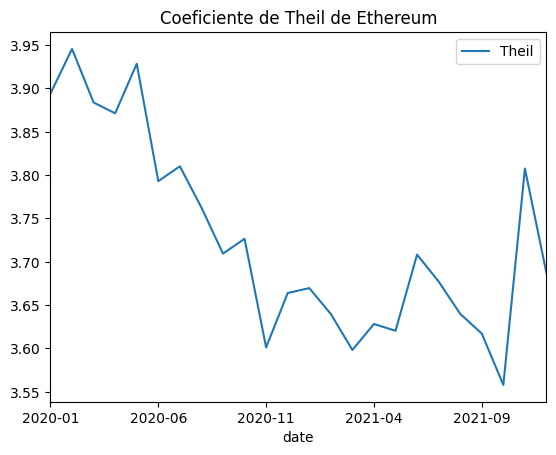
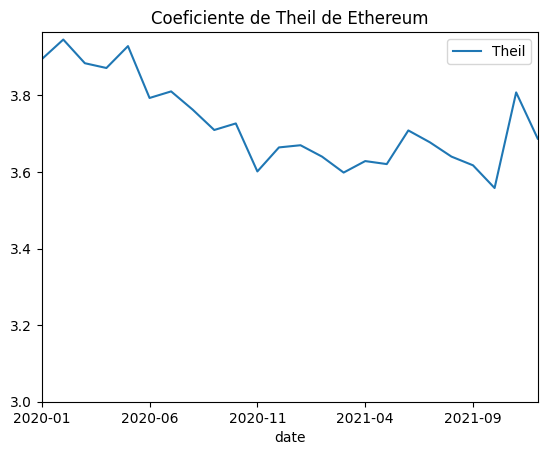
commit

diff --git a/main.py b/main.py
@@ -112,6 +112,10 @@ def plot_gini(name, capitalized_name, start_date, end_date, miner_field, change_
     plot = inequalities.plot();
     plot.set_title('Coeficiente de Gini de ' + capitalized_name)
     plot.margins(x=0)
+    if(name == 'dash'):
+        plot.set_ylim([0, None])
+    elif():
+        plot.set_ylim([0.5, None])
     plt.savefig('figs/gini/' + name + '_' + start_date + '_' + end_date + '.png', bbox_inches="tight")
 
 def theil_by_column(column):
@@ -131,6 +135,10 @@ def plot_theil(name, capitalized_name, start_date, end_date, miner_field, change
     plot = inequalities.plot();
     plot.set_title('Coeficiente de Theil de ' + capitalized_name)
     plot.margins(x=0)
+    if(name == 'ethereum'):
+        plot.set_ylim([3.0, None])
+    elif():
+        plot.set_ylim([0, None])
     plt.savefig('figs/theil/' + name + '_' + start_date + '_' + end_date + '.png', bbox_inches="tight")
 
 def nakamoto(arr, count_df):
@@ -162,12 +170,15 @@ def mean(x): return np.mean(x)
 def plot_upc(name, capitalized_name, start_date, end_date, miner_field):
     df = pd.read_csv('dataframes/full/' + name + '_' + start_date + '_' + end_date + '.csv')
     df = df[df[miner_field] != "*Desconhecido"]
+    df['date'] = pd.to_datetime(df['date'])
+    df['date'] = df['date'].dt.strftime('%Y-%m')
+    # print(df)
     df = df.groupby(['date'])['blocks'].agg([mean, std])
     df['Uniformidade'] = df['std']/df['mean']
     df = df.drop(['std', 'mean'], axis=1)
     plot = df.plot()
     plot.set_title('Coeficiente de Proporção de Uniformidade do ' + capitalized_name)
-    plot.set_ylim([0, None])
+    plot.set_ylim([0.4, None])
     plot.margins(x=0)
     # plot.xaxis.set_major_locator(YearLocator())
     # plot.xaxis.set_major_formatter(DateFormatter('%Y-%m-d'))
@@ -193,27 +204,27 @@ def main():
     # plot_coin('litecoin', 'Litecoin', '20111012', '20211231', 'guessed_miner', True, False)
     # plot_coin('litecoin', 'Litecoin', '20200101', '20211231', 'guessed_miner', True, False)
 
-    # plot_gini('bitcoin', 'Bitcoin', '20090109', '20211231', 'guessed_miner', True, True)
-    # plot_gini('bitcoin', 'Bitcoin', '20200101', '20211231', 'guessed_miner', True, True)
-    # plot_gini('bitcoin-cash', 'BitcoinCash', '20170801', '20211231', 'guessed_miner', True, True)
-    # plot_gini('bitcoin-cash', 'BitcoinCash', '20200101', '20211231', 'guessed_miner', True, True)
-    # plot_gini('dash', 'Dash', '20140119', '20211231', 'guessed_miner', True, False)
-    # plot_gini('dash', 'Dash', '20200101', '20211231', 'guessed_miner', True, False)
-    # plot_gini('ethereum', 'Ethereum', '20150730', '20211231', 'miner', False, False)
-    # plot_gini('ethereum', 'Ethereum', '20200101', '20211231', 'miner', False, False)
-    # plot_gini('litecoin', 'Litecoin', '20111012', '20211231', 'guessed_miner', True, False)
-    # plot_gini('litecoin', 'Litecoin', '20200101', '20211231', 'guessed_miner', True, False)
+    plot_gini('bitcoin', 'Bitcoin', '20090109', '20211231', 'guessed_miner', True, True)
+    plot_gini('bitcoin', 'Bitcoin', '20200101', '20211231', 'guessed_miner', True, True)
+    plot_gini('bitcoin-cash', 'BitcoinCash', '20170801', '20211231', 'guessed_miner', True, True)
+    plot_gini('bitcoin-cash', 'BitcoinCash', '20200101', '20211231', 'guessed_miner', True, True)
+    plot_gini('dash', 'Dash', '20140119', '20211231', 'guessed_miner', True, False)
+    plot_gini('dash', 'Dash', '20200101', '20211231', 'guessed_miner', True, False)
+    plot_gini('ethereum', 'Ethereum', '20150730', '20211231', 'miner', False, False)
+    plot_gini('ethereum', 'Ethereum', '20200101', '20211231', 'miner', False, False)
+    plot_gini('litecoin', 'Litecoin', '20111012', '20211231', 'guessed_miner', True, False)
+    plot_gini('litecoin', 'Litecoin', '20200101', '20211231', 'guessed_miner', True, False)
 
-    # plot_theil('bitcoin', 'Bitcoin', '20090109', '20211231', 'guessed_miner', True)
-    # plot_theil('bitcoin', 'Bitcoin', '20200101', '20211231', 'guessed_miner', True)
-    # plot_theil('bitcoin-cash', 'BitcoinCash', '20170801', '20211231', 'guessed_miner', True)
-    # plot_theil('bitcoin-cash', 'BitcoinCash', '20200101', '20211231', 'guessed_miner', True)
-    # plot_theil('dash', 'Dash', '20140119', '20211231', 'guessed_miner', True)
-    # plot_theil('dash', 'Dash', '20200101', '20211231', 'guessed_miner', True)
-    # plot_theil('ethereum', 'Ethereum', '20150730', '20211231', 'miner', False)
-    # plot_theil('ethereum', 'Ethereum', '20200101', '20211231', 'miner', False)
-    # plot_theil('litecoin', 'Litecoin', '20111012', '20211231', 'guessed_miner', True)
-    # plot_theil('litecoin', 'Litecoin', '20200101', '20211231', 'guessed_miner', True)
+    plot_theil('bitcoin', 'Bitcoin', '20090109', '20211231', 'guessed_miner', True)
+    plot_theil('bitcoin', 'Bitcoin', '20200101', '20211231', 'guessed_miner', True)
+    plot_theil('bitcoin-cash', 'BitcoinCash', '20170801', '20211231', 'guessed_miner', True)
+    plot_theil('bitcoin-cash', 'BitcoinCash', '20200101', '20211231', 'guessed_miner', True)
+    plot_theil('dash', 'Dash', '20140119', '20211231', 'guessed_miner', True)
+    plot_theil('dash', 'Dash', '20200101', '20211231', 'guessed_miner', True)
+    plot_theil('ethereum', 'Ethereum', '20150730', '20211231', 'miner', False)
+    plot_theil('ethereum', 'Ethereum', '20200101', '20211231', 'miner', False)
+    plot_theil('litecoin', 'Litecoin', '20111012', '20211231', 'guessed_miner', True)
+    plot_theil('litecoin', 'Litecoin', '20200101', '20211231', 'guessed_miner', True)
 
     # plot_pie('bitcoin', 'Bitcoin', '20090109', '20211231', 'guessed_miner')
     # plot_pie('bitcoin', 'Bitcoin', '20200101', '20211231', 'guessed_miner')
